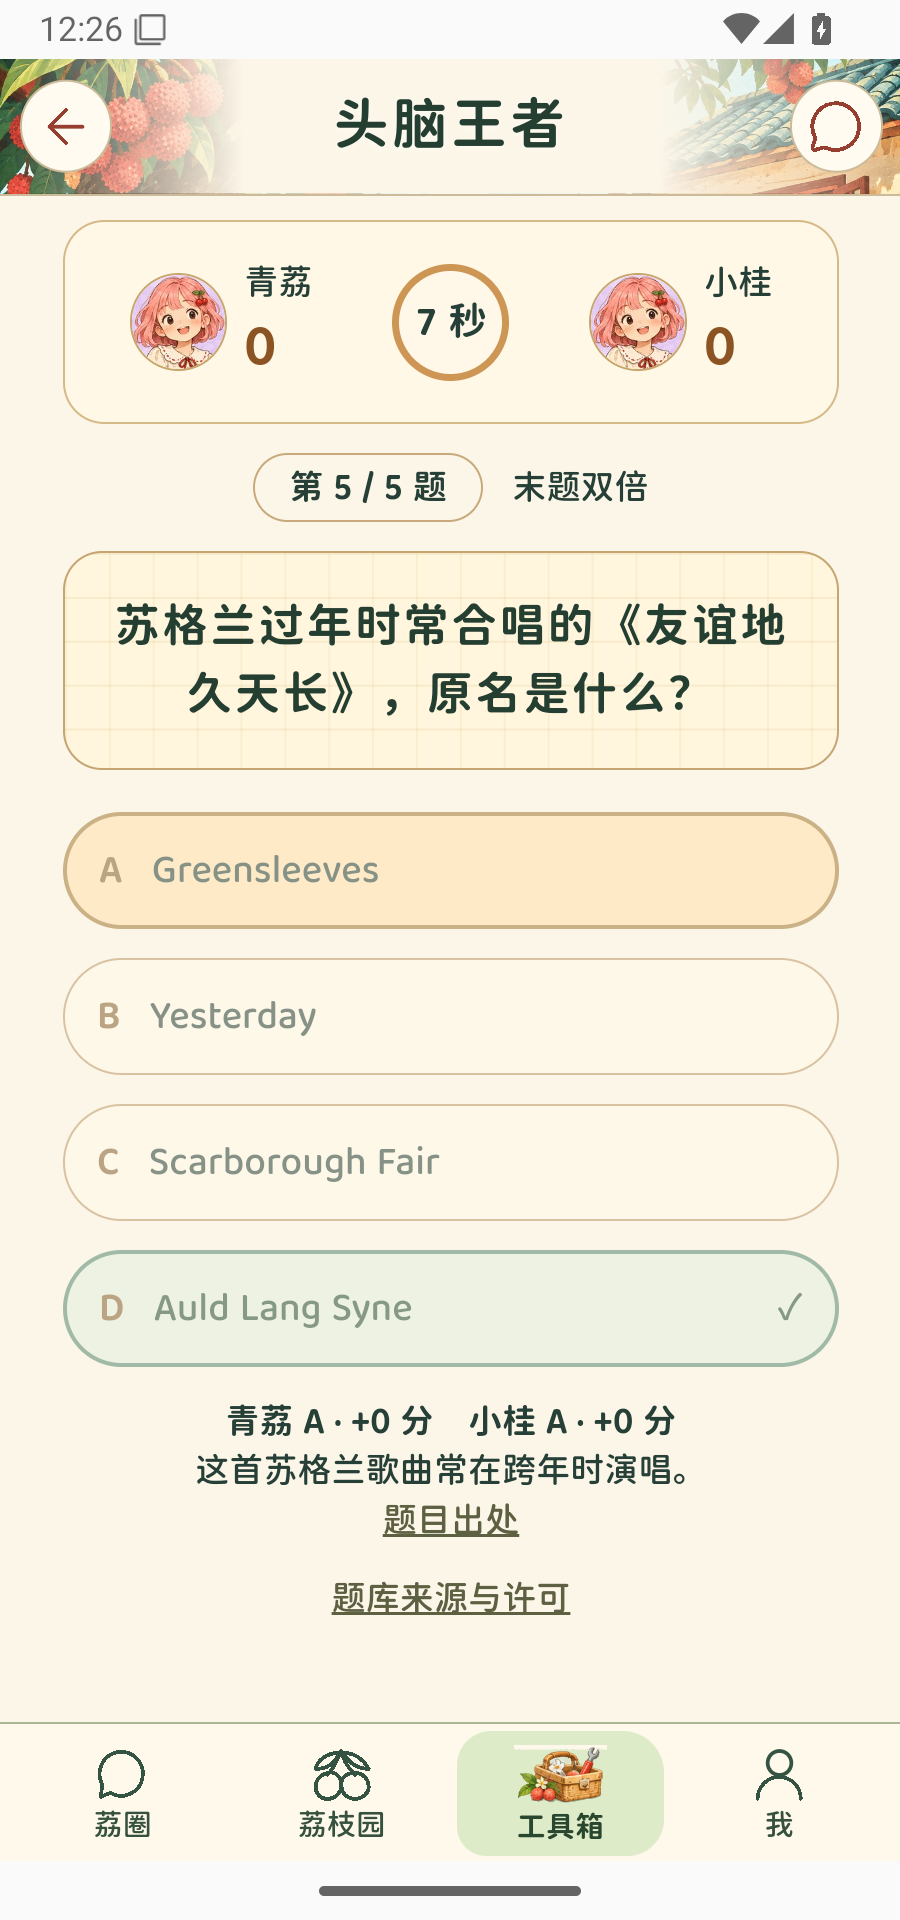
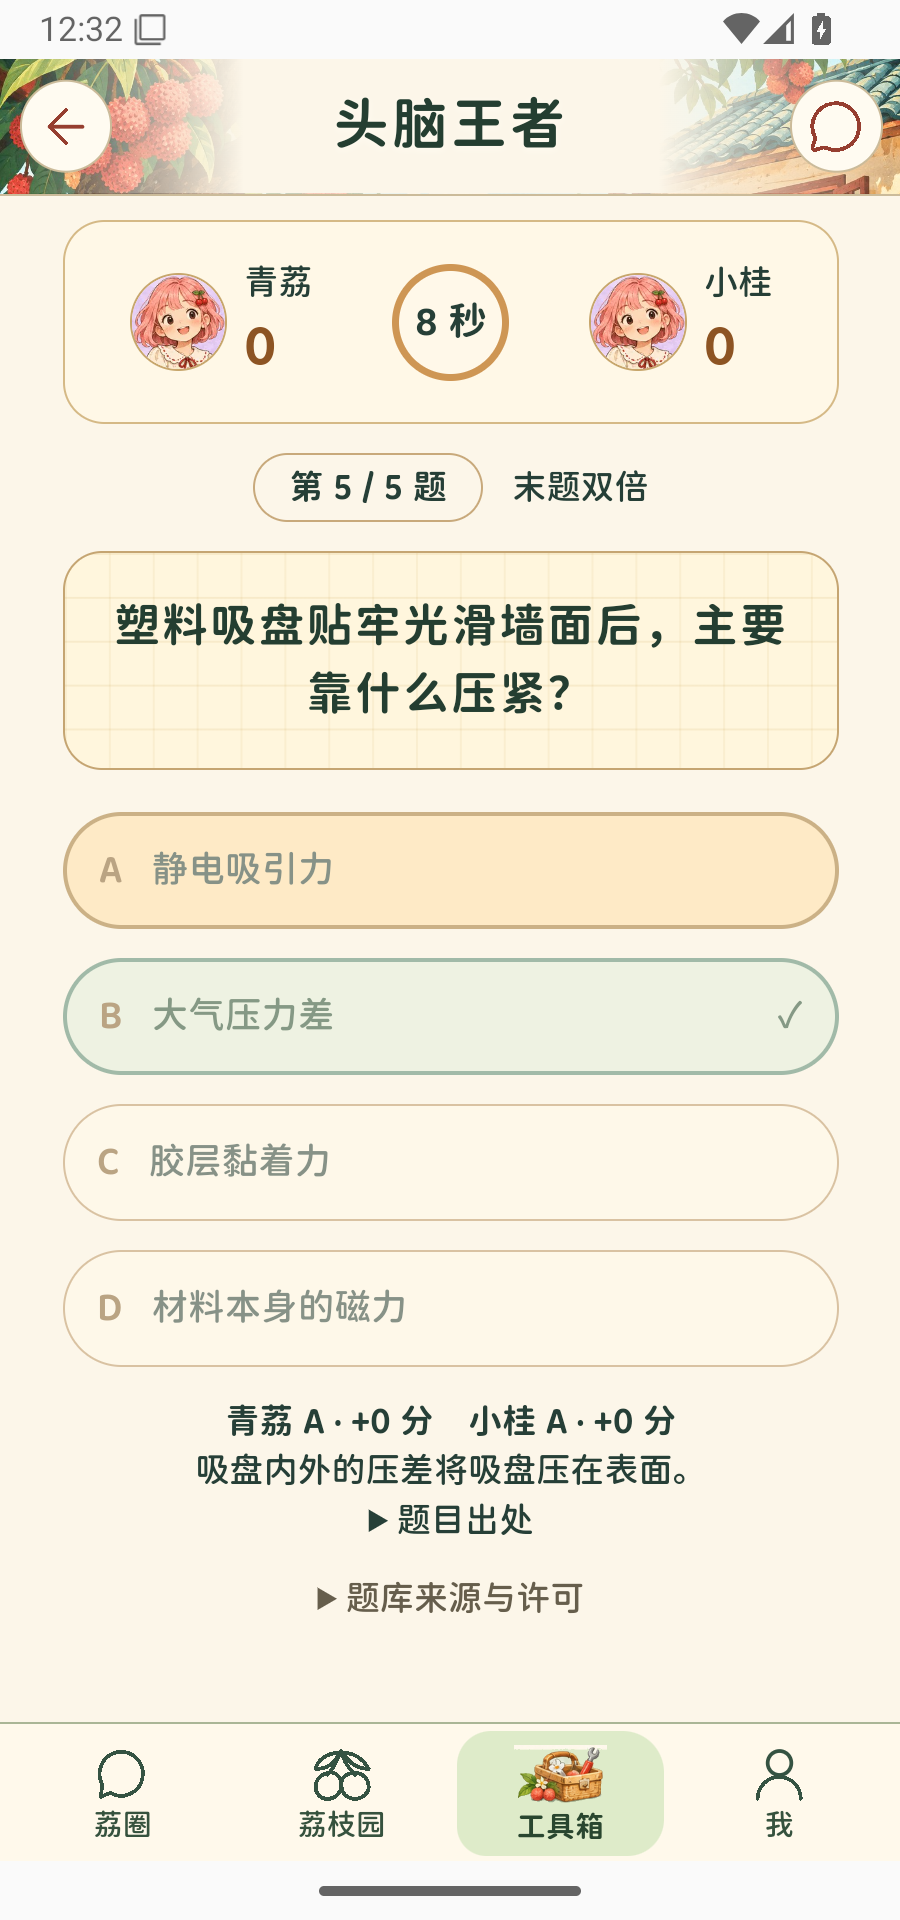
Record verified garden quiz coverage and recovery evidence

diff --git a/source/接手说明.md b/source/接手说明.md
@@ -7,18 +7,18 @@
 | 部位 | 事实源与边界 |
 | --- | --- |
 | 跨端共享源 | 从本目录开始运行命令。它保留开发工程的原相对路径。`source/web/` 与 `legacy/` 为原业务基线，`source/manifest.json` 校对 151 个输入。 |
-| 共享客户端 | `build.py` 从基线合成双入口，通过 `client/` 共用账号、分园、额度、字体和布局。同一 `public-build.json` 记录当前 7.0.0 共享基线的 167 个构建文件的 SHA-256。 |
-| Windows W7.0.5 | `desktop/` 提供 WPF/WebView2 宿主、MSI 与验证，`launch/` 管离线首屏。客户端启动后再探测服务；保留置顶等旧功能的原 4.1.7 程序和新客户端独立运行。 |
+| 共享客户端 | `build.py` 从基线合成双入口，通过 `client/` 共用账号、分园、额度、字体和布局。同一 `public-build.json` 记录当前 7.0.0 共享基线的 171 个构建文件的 SHA-256。 |
+| Windows W7.0.6 | `desktop/` 提供 WPF/WebView2 宿主、MSI 与验证，`launch/` 管离线首屏。客户端启动后再探测服务；保留置顶等旧功能的原 4.1.7 程序和新客户端独立运行。 |
 | 数据与 AI | `server/` 实现本地 SQLite、正式 Turso、旧园兼容和新园隔离，`legacy/` 保留原业务处理器。`upstream/6.3.3/server.mjs` 是原始监听入口，便于比较或离线验证。 |
 | 手机 | `static-host/` 提供独立静态网页的同源 API 转发，`android/` 包含 Capacitor 8.6.1 原生工程、输入生成器和构建说明。手机原网址使用 `mobile-web/`，iOS 原生工程在 `ios/`。 |
-| 历史及第三方 | 历史清单按工件实测散列区分正式版、候选与别名。安装包、字体、依赖和海龟汤题目的公开归属见本目录 `third-party/README.md` 及上一级历史目录。 |
+| 历史及第三方 | [头脑王者逐题署名、题源及许可](../docs/design/头脑王者题库来源.md)。历史清单按工件实测散列区分正式版、候选与别名。安装包、字体、依赖和海龟汤题目的公开归属见本目录 `third-party/README.md` 及上一级历史目录。 |
 
 **公开源有一项有意的配置差异。** 旧三席注册的邀请校验值已从 `legacy/account.mjs` 移出。公开版从管理员的四个服务端环境变量读取，均未设置时旧邀请码注册默认关闭。新版注册、每园邀请码和客户端文件不受影响。`source/manifest.json` 记录 150 个原输入以及该公开模块的新摘要。`server/package-overlay.py` 核对持有人私有归档中原账号模块的完整文件摘要。不要将旧实际校验值或原归档里的环境文件提交进仓库。
 
 ## 产品约定
 
 - 公开注册，创建园或用本园的邀请码加入。每个园一枚稳定邀请码，换码后原成员保留。任何已加入成员都可编辑本园名称、简介，查看或更换本园邀请码。个人资料属于本人。仅浏览别人的园 ID 不能查看聊天或图片。
-- 工具箱包含提醒事项、约定倒计时、问一问、番茄钟、记账本、照记饮食和交给命运。园中事在荔枝园。「我」保留个人资料、头像、通知和设置，设置显示实际版本。
+- 工具箱包含提醒事项、约定倒计时、问一问、番茄钟、记账本、照记饮食和交给命运。「一起玩」中的头脑王者支持同园好友约战。园中事在荔枝园。「我」保留个人资料、头像、通知和设置，设置显示实际版本。
 - 每账号每天合计 20 次问答和 10 次生图，以北京时间零点为界，跨设备和跨园共用。写作与海龟汤主持计入问答，头像和封面计入生图。同一生图作业可查结果，确认没有可取回图片时退还次数。6.4.5 的旧通用错缺少可关联的图片编号，仅能自动归还可从原记录证明在落图前失败的旧请求。
 - Windows 新版保持移动应用的全部入口，并适配宽窗侧栏与窄窗。6.4.6 改善工具卡、AI 图片恢复与页内原图。6.4.7 修复窗框拖动，并把番茄钟、记账本、提醒集中到工具箱。原 4.1.7 的发布地址和程序继续独立保留。
 
@@ -84,6 +84,6 @@ node test/windows-update-e2e.mjs ".local/update-$qaId/old" ".local/update-$qaId/
 | Windows 6.4.7 | 两次在独立 Windows 桌面上验证真实窗口四边/四角拖动，均为 8/8。6.4.6 同条件仅 2/8 有效。另实测 326 像素窄窗、最大化、还原和原图保存。已核对 MSI 从 6.4.6 到 6.4.7 的升级关联和嵌入程序；本轮没有在使用者系统执行现场升级。 |
 | 手机与桌面功能 | 在 390×844 和 984×698 两个浏览器视口点开五卡、返回、续计时、跨端修改账单。手机写入 8.90 元，桌面改 9.80 元后读回 980 分。最终静态页在多个隔离会话中验证了账号、换码、原成员保留与新成员入园。 |
 | 生图 | 真实 Windows 宿主与本地供应商验证 2048×2048、7,842,417 字节文件分 59 片，返回、重开、下载后字节相同。开户、真实模型各一次和只读相册在正式测试园另行验证；本仓测试默认使用本地模拟供应商。 |
-| 仍需设备验收 | Android/iOS 真机、系统级通知送达、进程退出后的定时提醒，以及 iPhone 主屏模式。当前提醒依赖页面或客户端仍在运行。 |
+| 6.4.7 设备验证边界 | 当时的验证未覆盖 Android/iOS 真机、系统级通知送达、进程退出后的定时提醒及 iPhone 主屏模式。后续版本见[项目交接](../docs/项目交接.md)。 |
 
 本目录只交付源代码、随包界面资源、构建清单、测试程序与公开说明。私人账号、数据库、会话、AI 密钥、签名私钥、真实上传图片、原始运行日志和受限发布分片由部署方单独保管。备份与代码/数据回退步骤见 `server/OPERATIONS.md`。

diff --git a/source/server/OPERATIONS.md b/source/server/OPERATIONS.md
@@ -23,6 +23,8 @@ node server/index.mjs
 
 7.0.0 的饮食记录与设备推送都经过同一服务的 `/api/v7/`。候选部署时，先在隔离环境装入对应版本的服务模块及入口，再检查手机原网址的网页资源。只更新静态页不能启用这些接口。
 
+头脑王者由同一服务的 `/api/v7/quiz` 校验账号与园成员。部署一并携带 `quiz-game.mjs`、`quiz-rounds.mjs` 和服务端题库 `quiz-bank.json`。首次获准访问时创建对局表 `mc_quiz_game`、园内排行表 `mc_quiz_rank` 与结算触发器；对局和星数一起纳入原数据库备份。恢复或回退使用同版本的客户端、服务端模块和题库。
+
 原 Render 手机站的部署命令以 Git 提交固定构建来源。运行 `source/mobile-web/build.py <准备目录>/www` 后，将 `source/mobile-web/start.mjs` 和 `install.mjs` 复制到同一准备目录，保留 `www/` 与其同级的私有 `server-v7/`。原启动器先解包既有代码分片，手机站启动脚本在临时解包目录验证原路由及三个被扩展的 6.4.7 模块，再装入七版服务及手机页面。原数据库、私有分片、旧版签名下载和主屏幕清单沿用原配置。校验不匹配时先核对发布日志，避免以更老的私有分片覆盖在线服务。代码回退使用上一次正常部署的完整构建命令和提交。
 
 - 拍照识别使用现有问答额度和园范围。在服务端启用 `LYCHEE_ENABLE_PROVIDER_CALLS=1`、`LYCHEE_ENABLE_DIET_VISION=1` 后，默认用现有 `DEEPSEEK_API_KEY` 调用支持图像理解的 `deepseek-flash`。已配置方舟的部署继续通过 `LYCHEE_DIET_VISION_MODEL` 指定方舟视觉理解模型或接入点，使用 `ARK_API_KEY`；切回 DeepSeek 时将该值设为 `deepseek-flash`。照片只交给本次选定的提供商，服务不可用时仍可手动记餐。真实照片与付费调用按当轮授权验收。[DeepSeek 图像理解](https://api-docs.deepseek.com/zh-cn/guides/vision/)

diff --git a/docs/design/一起玩-好友竞技问答方案.md b/docs/design/一起玩-好友竞技问答方案.md
@@ -1,4 +1,4 @@
-# 荔枝「一起玩」好友竞技问答方案
+# 荔枝「一起玩」头脑王者方案
 
 2026-11-27 · 功能名「头脑王者」 · [三屏界面首样](头脑王者-三屏参考图.png)已由负责人在本次接手对话回复「采用这个方向」。榜单示意数值在成品中显示为段位和星数。
 
@@ -6,7 +6,7 @@
 
 在「工具箱 → 一起玩」点「头脑王者」，选一位园友发挑战。朋友在园内聊天点「应战」，两人准备好，一起回答五道四选一。每道题揭晓时都能看见双方答了什么、各拿几分。最后一题双倍，结算页可以看朋友榜，也可以邀请刚才的对手再来一局。
 
-负责人已定：只约熟人，不做陌生人匹配。段位用于朋友排名。五题累计同分即平局，双方无任何奖励，可自行再开一局。超时者当题得零分。下文的圈子边界、计分细节、段位数值和题库规模均是本稿建议。
+负责人确定采用好友约战，段位用于朋友排名。五题累计同分即平局，双方无任何奖励，可自行再开一局。超时者当题得零分。本轮实现采用下文的一园一榜、十秒计分档和六段星级，首批逐类题量见[题库与来源](头脑王者题库来源.md)。
 
 ## 页面与交互
 

diff --git a/docs/design/头脑王者题库来源.md b/docs/design/头脑王者题库来源.md
@@ -26,6 +26,8 @@
 | 电子游戏与桌游 | 25 | 4 | 21 | 0 | 11 | 11 | 3 |
 | 合计 | 459 | 84 | 355 | 20 | 177 | 229 | 53 |
 
+美食烹饪 40 题中，14 题直接问中式菜点、饮品或食材做法，包括武汉热干面、福州佛跳墙、川菜回锅肉、湘菜剁椒鱼头、广式早茶。统计范围为 food-008、012、013、022、023 和 025–033。
+
 ## 选题与许可
 
 84 道题取自五个公开题库，由荔枝用中文选编，调整了部分题干、选项、单位和解说。选取 OpenTriviaQA 的 19 道题以固定提交及原题所在行为依据；从 Open Trivia DB 精选的 23 道题保留社区题号与投稿者署名。这两个题库的 42 道中文改编按原许可 CC BY-SA 4.0 提供，再分发这 42 题时请保留署名、原始链接、修改说明与相同许可。[OpenTriviaQA 许可](https://github.com/uberspot/OpenTriviaQA/blob/dcc1cdf36c2985ed5c849d1f2265c5041ffcdfb9/LICENSE) · [Open Trivia DB API 与许可](https://opentdb.com/api_config.php) · [CC BY-SA 4.0 中文说明](https://creativecommons.org/licenses/by-sa/4.0/deed.zh-hans)

diff --git a/archive/windows/7.0.3-RC/README.md b/archive/windows/7.0.3-RC/README.md
@@ -8,4 +8,4 @@
 python archive/windows/7.0.3-RC/restore.py "$env:TEMP/Lychee-W7.0.3-RC"
 ```
 
-脚本从 MSI 取出内置 EXE，按[候选清单](candidate.json)核对两份文件的大小与 SHA-256。已有的同名文件内容不一致时会停止。W7.0.3 本身保留在历史候选目录。2026-11-27 使用此处还原的原 EXE 在 Windows .NET Framework 上调用生产更新方法，读到官方 W7.0.5 清单；EXE 和 MSI 均可下载，摘要和内部版本匹配。故障朋友设备的网络和安装情况需现场确认。
+脚本从 MSI 取出内置 EXE，按[候选清单](candidate.json)核对两份文件的大小与 SHA-256。已有的同名文件内容不一致时会停止。W7.0.3 本身保留在历史候选目录。2026-11-27 使用此处还原的原 EXE 在 Windows .NET Framework 上调用生产更新方法，发布前读到官方 W7.0.5，发布后复测读到 W7.0.6。两版的 EXE 和 MSI 均经原更新器下载，摘要和内部版本匹配。故障朋友设备的网络和安装情况需现场确认。
